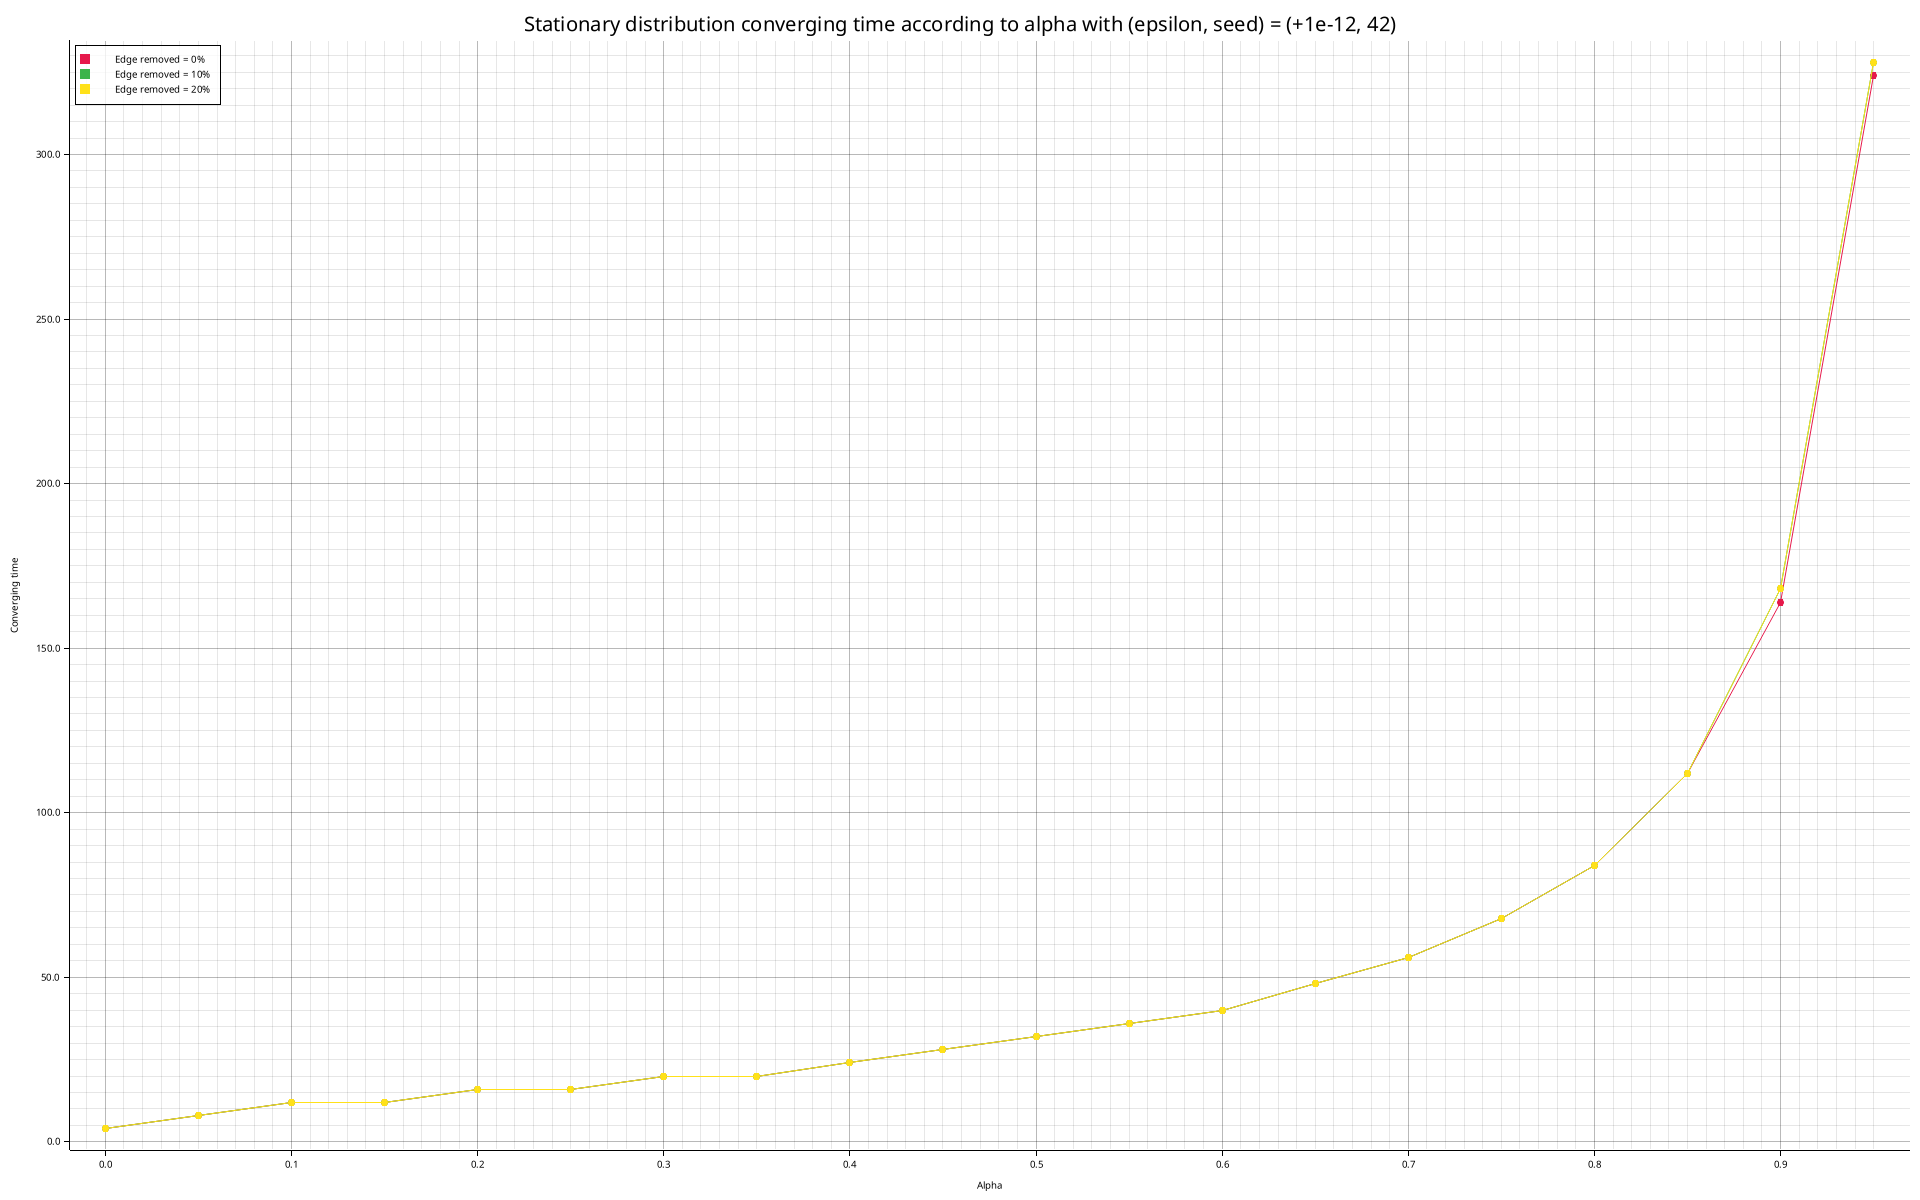
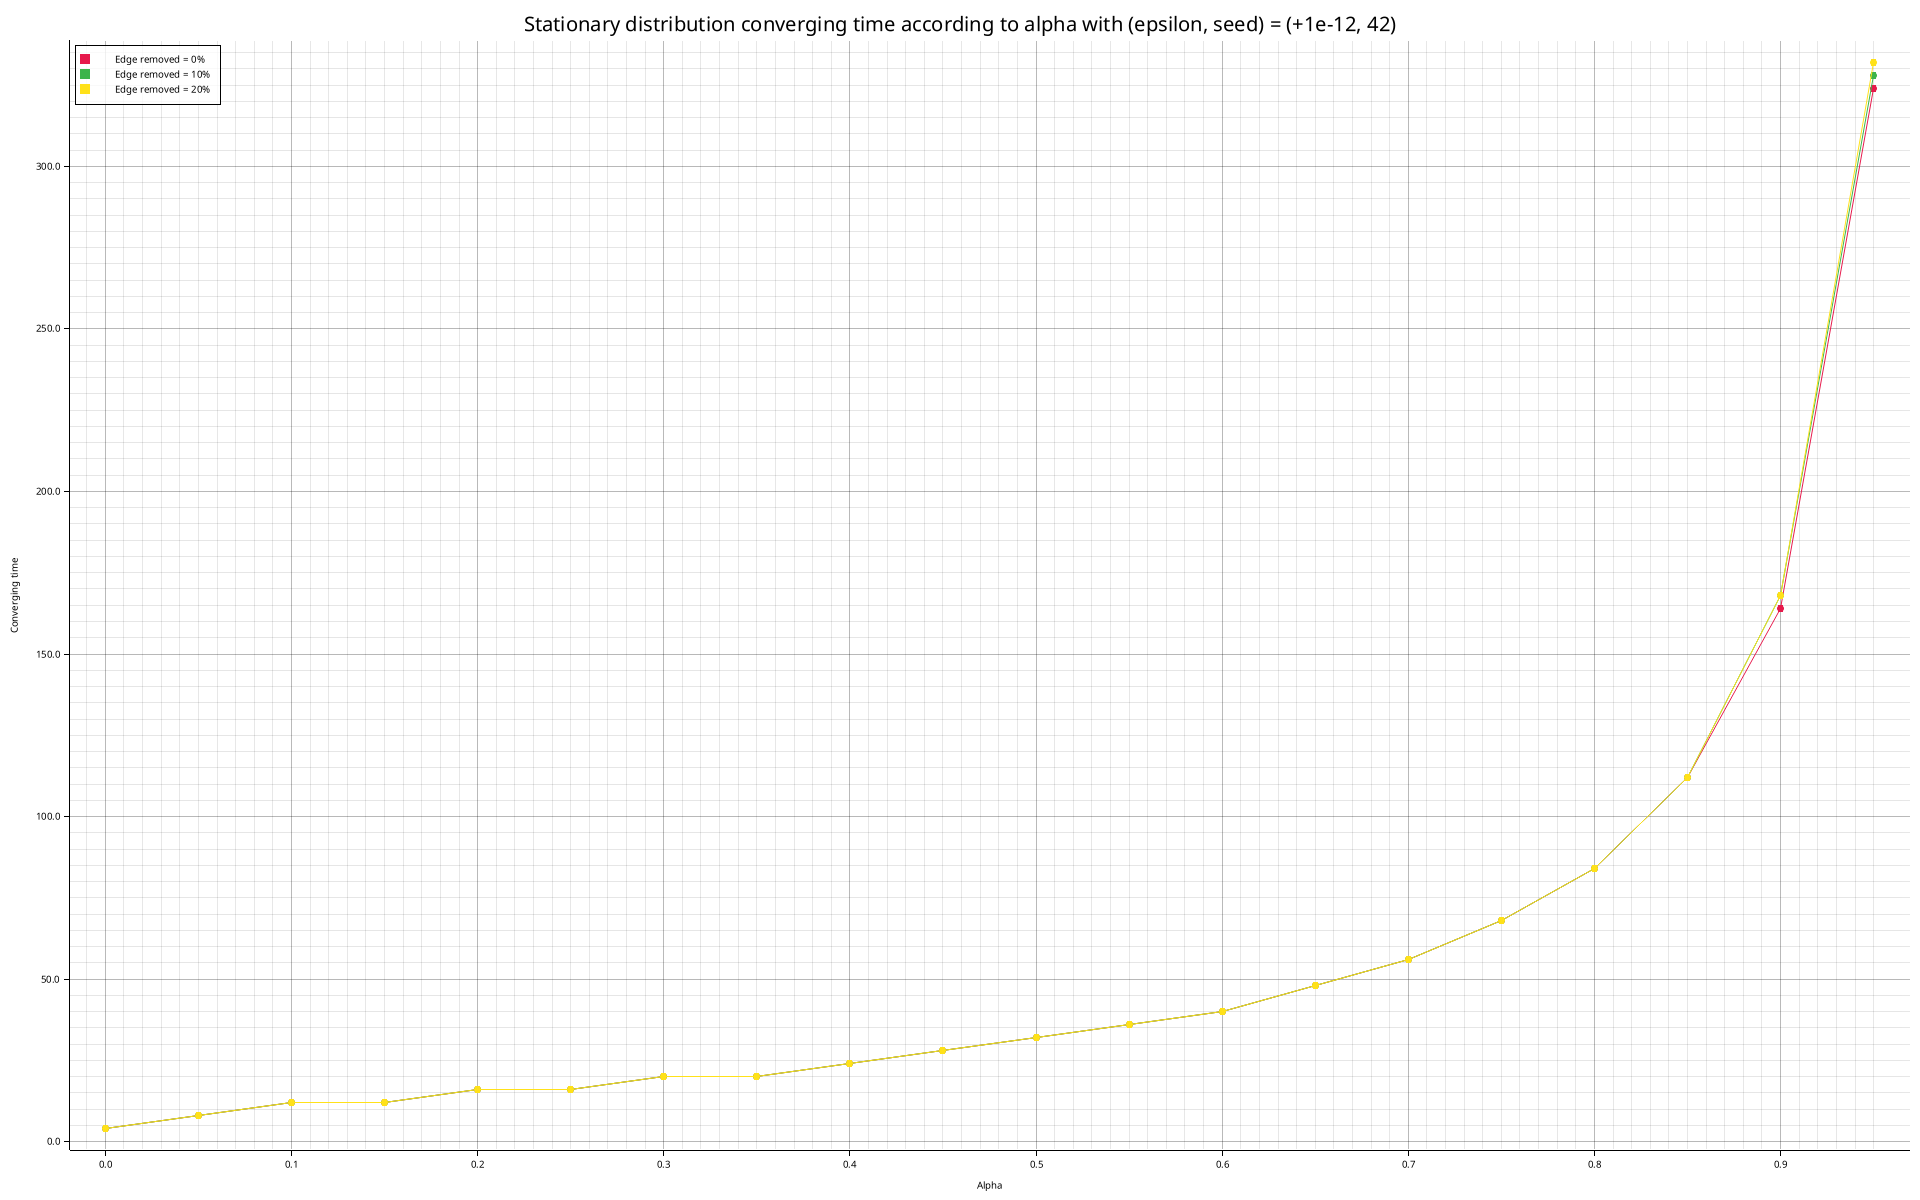
Fix RngSeq and update plots

Changed region(s): [[0.0312, 0.0308, 1.0, 0.8942]]

diff --git a/ranking/src/matrix/ops.rs b/ranking/src/matrix/ops.rs
@@ -51,6 +51,7 @@ impl CSC {
     }
 
     pub fn remove_edges(&self, treshold: f64, seed: u64) -> Result<CSC, CSCErr> {
+        let mut local_seed = seed;
         let nb_threads = &self.pool().num_workers();
         let (tx, rx) = unbounded();
 
@@ -73,10 +74,11 @@ impl CSC {
                 .pool()
                 .execute(move || {
                     filter_edges(
-                        tx_c, columns_c, treshold, chunk_id, start, end, total_len, seed,
+                        tx_c, columns_c, treshold, chunk_id, start, end, total_len, local_seed,
                     )
                 })
                 .map_err(|e| CSCErr::Thread(format!("Thread Pool error : {}", e)))?;
+            local_seed += 1;
         }
         drop(tx);
 
